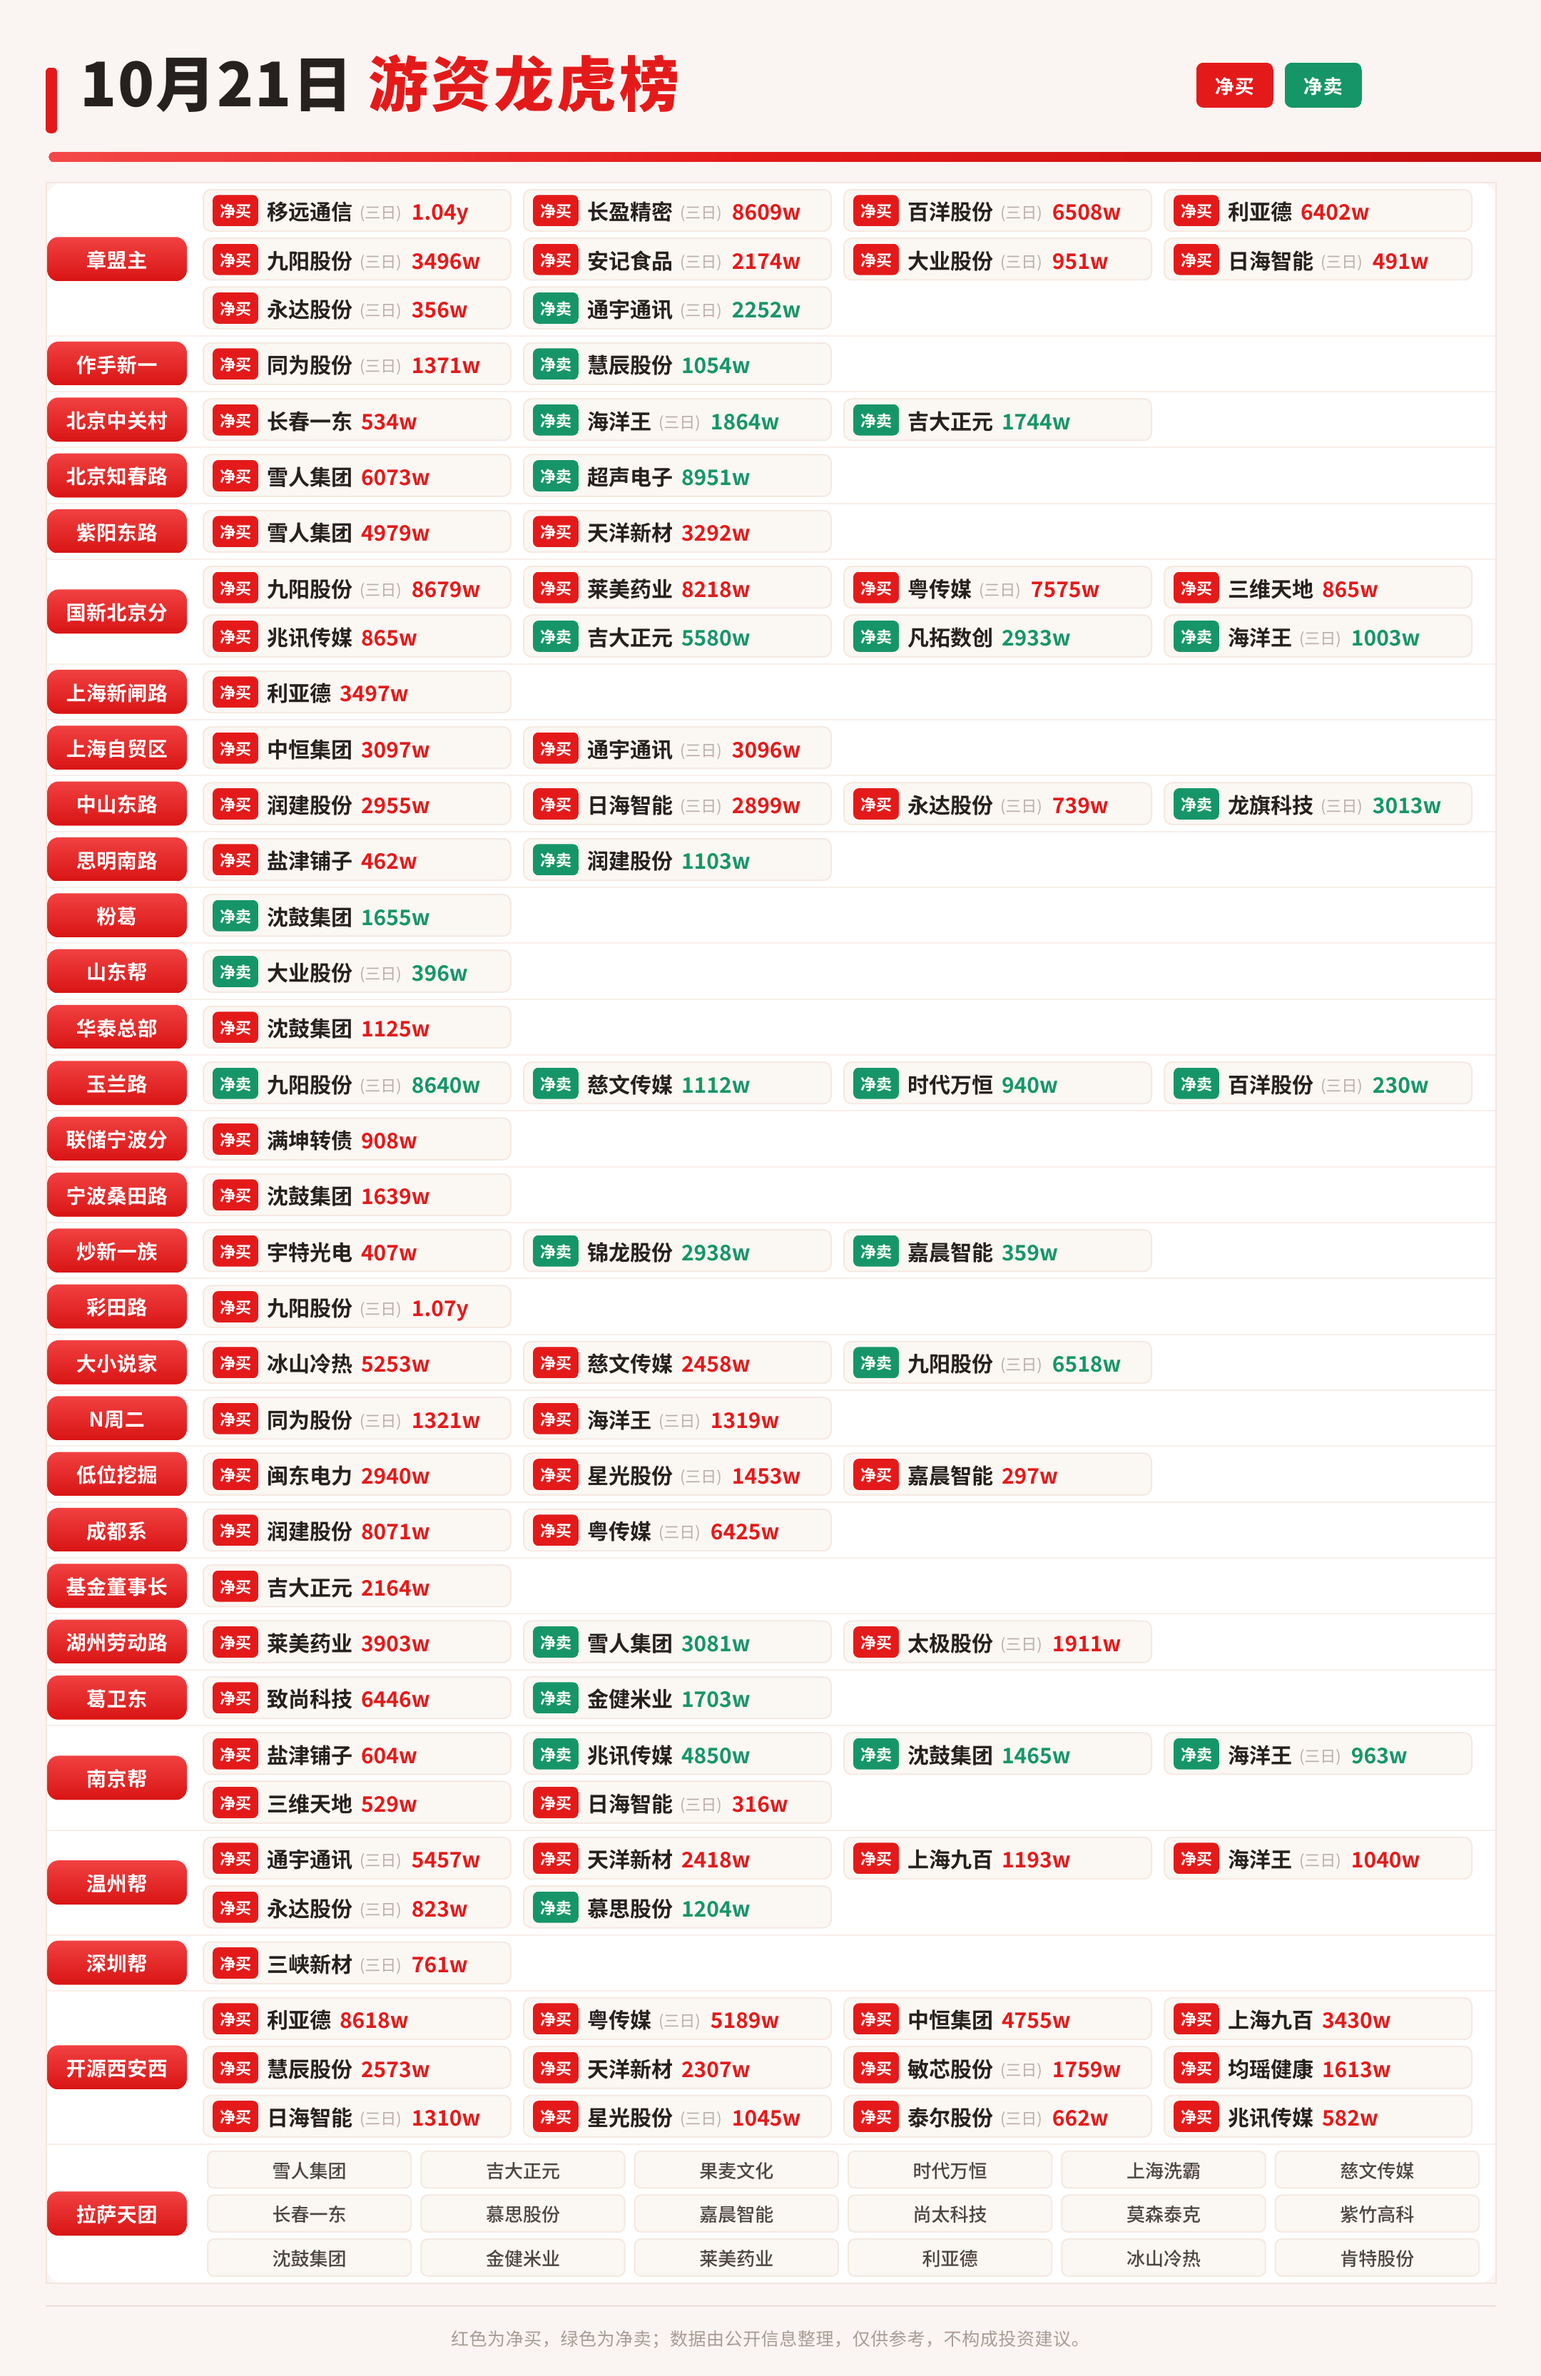
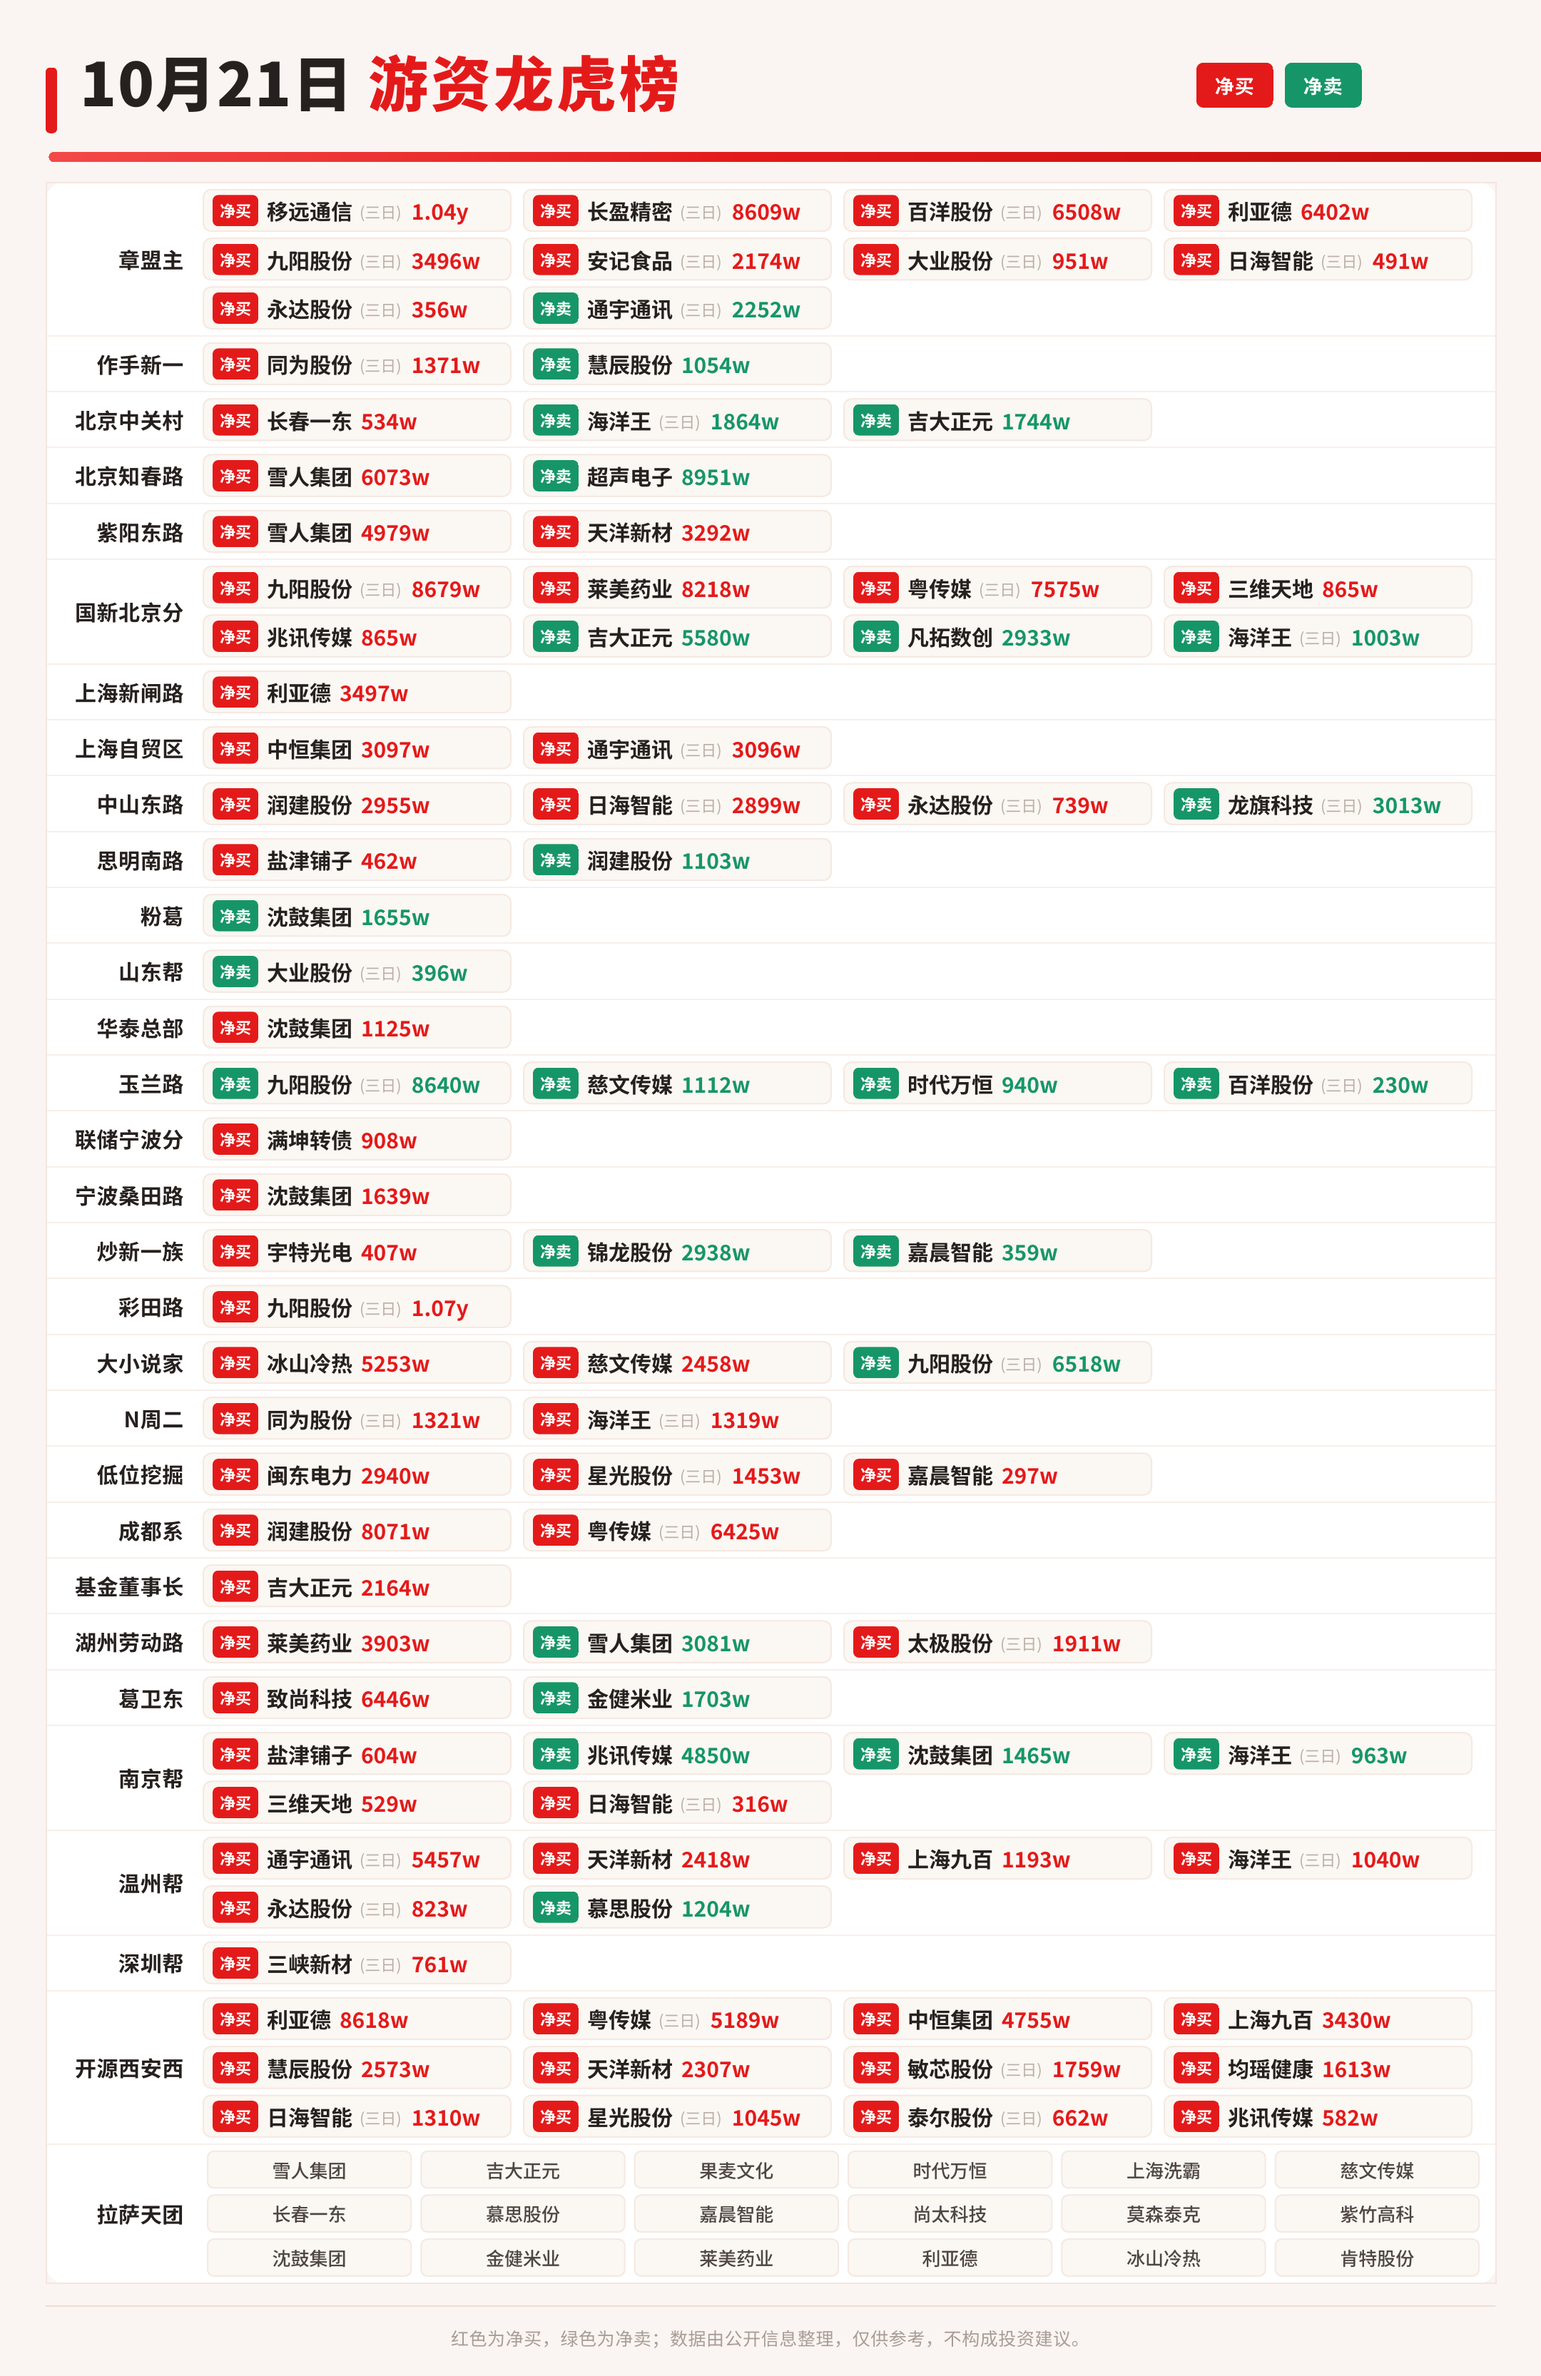
feat: update workspace

Changed region(s): [[0.031, 0.0937, 0.1241, 0.9679]]

diff --git a/restyle/index.html b/restyle/index.html
@@ -25,9 +25,8 @@
   .row { border-bottom:1px solid #F8EFEA; }
   .row.last { border-bottom:none; }
   .seat { width:98px; vertical-align:middle; padding:2px 0; }
-  .seat span { display:inline-block; height:31px; line-height:31px; width:100%;
-          text-align:center; color:#fff; font-size:14px; font-weight:700; letter-spacing:.3px;
-          border-radius:8px; background:linear-gradient(180deg,#F14141,#D91414); }
+  .seat span { display:block; text-align:right; padding-right:2px;
+          color:#26201E; font-size:15px; font-weight:700; letter-spacing:.3px; line-height:1.3; }
   .items { padding:2px 8px 2px 11px; vertical-align:middle; }
   .grid { width:100%; }
   .grid td.cell { width:25%; vertical-align:middle; padding:2px 8px 2px 0; }

diff --git a/restyle/generate.py b/restyle/generate.py
@@ -69,9 +69,8 @@ HTML = f"""<!DOCTYPE html>
   .row {{ border-bottom:1px solid #F8EFEA; }}
   .row.last {{ border-bottom:none; }}
   .seat {{ width:98px; vertical-align:middle; padding:2px 0; }}
-  .seat span {{ display:inline-block; height:31px; line-height:31px; width:100%;
-          text-align:center; color:#fff; font-size:14px; font-weight:700; letter-spacing:.3px;
-          border-radius:8px; background:linear-gradient(180deg,#F14141,#D91414); }}
+  .seat span {{ display:block; text-align:right; padding-right:2px;
+          color:#26201E; font-size:15px; font-weight:700; letter-spacing:.3px; line-height:1.3; }}
   .items {{ padding:2px 8px 2px 11px; vertical-align:middle; }}
   .grid {{ width:100%; }}
   .grid td.cell {{ width:25%; vertical-align:middle; padding:2px 8px 2px 0; }}
